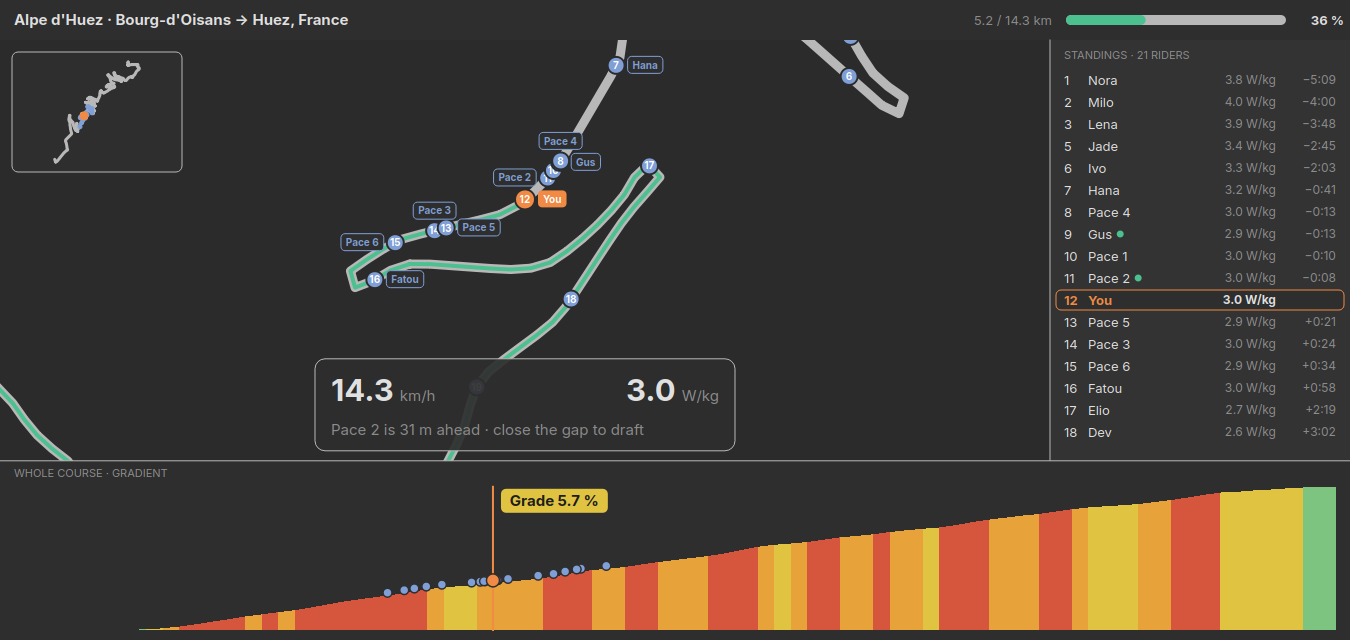
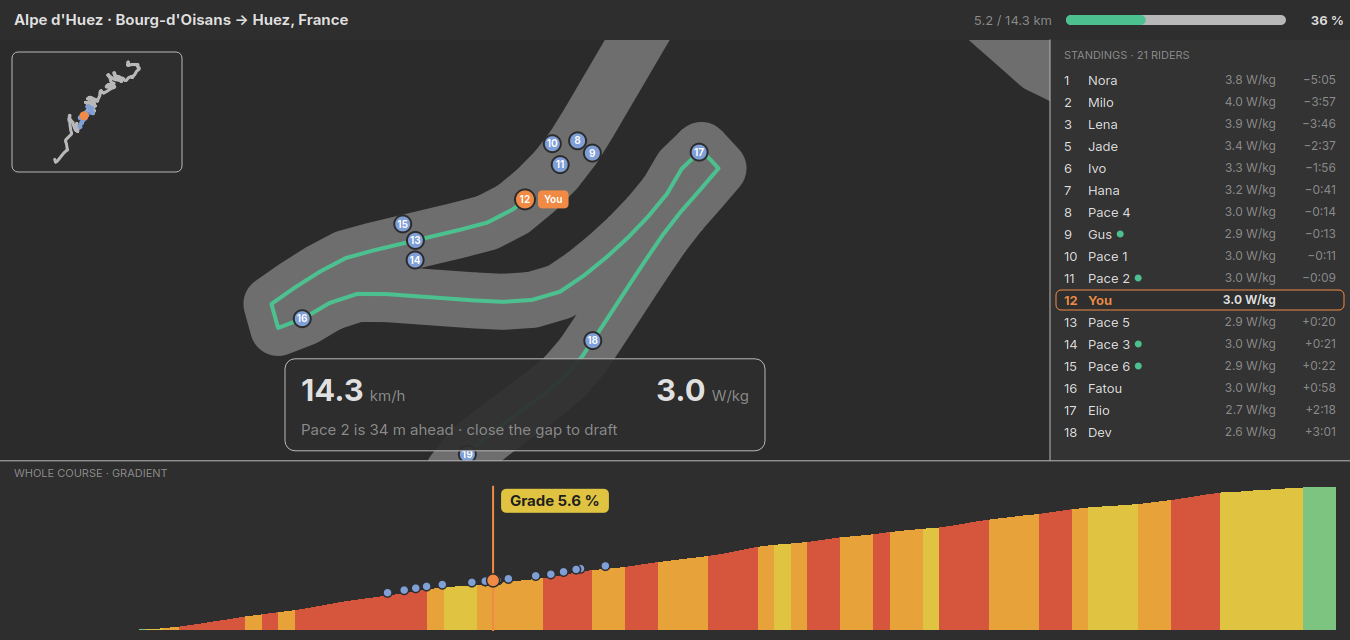
feat(courses): bunch layout on a wide road, stronger group draft
- Riders a metre apart used to share one dot. They are now laid out like a
  bunch on a road drawn wide enough for three abreast: leader first, a rider
  who would cover another moves across the road. Dots show the position
  number; name tags appear for you and for riders within 30 m where a tag
  fits without covering anything.
- The map shows 180 m around you.
- Draft: the closest wheel still gives up to 30 % less air drag (at 1 m or
  closer, none at 10 m). Each further rider ahead now adds up to 5 %, scaled
  by how close they are (it was a flat 3 % for anyone within 10 m), capped
  at 40 %. Tests pin "closer is better", "more riders is better" and that a
  far rider adds almost nothing.
- The draft line counts the riders sheltering you ("On Pace 2's wheel -
  <0.5 m - 5 riders - saving 27 %").

diff --git a/docs/user-guide.html b/docs/user-guide.html
@@ -1235,9 +1235,10 @@
           <li><strong>Pace bots.</strong> About a third of the bots, called <em>Pace 1</em>, <em>Pace 2</em> and so on,
               ride together at 3.0 W/kg (or the nearest end of your range). The others are spread evenly across the
               range.</li>
-          <li><strong>Drafting.</strong> Stay within a few metres behind another rider to save effort. The panel shows who
-              you are drafting and how much power you save. Drafting is worth a lot on the flat and very little on a
-              steep climb.</li>
+          <li><strong>Drafting.</strong> Ride right behind another rider to save effort: the closer you are, the more
+              you save (most at 1 m or less, nothing beyond 10 m), and more riders in front shelter you more. The card
+              shows the wheel you are on, the gap and the power you save. Drafting is worth a lot on the flat and very
+              little on a steep climb.</li>
           <li><strong>The map</strong> follows you, with the riders just ahead and behind as numbered dots (you are
               orange); the small map in the corner shows the whole course. The standings list each rider's W/kg and
               how far ahead or behind you they are.

diff --git a/src/race/raceview.cpp b/src/race/raceview.cpp
@@ -22,10 +22,11 @@ const QColor kGradeSteep(0xd6, 0x55, 0x3d);
 constexpr double kTopBarHeight = 40.0;
 constexpr double kStandingsWidth = 300.0;
 constexpr double kRowHeight = 22.0;
-constexpr double kNameTagRangeM = 250.0;
-constexpr double kNowCardWidth = 420.0;
+constexpr double kNowCardWidth = 480.0;
 constexpr double kNowCardHeight = 92.0;
-constexpr double kZoomHalfM = 130.0;   // the map shows 260 m around you
+constexpr double kRoadWidthPx = 56.0;
+constexpr double kNameRangeM = 30.0;   // riders this close get a name tag, where it fits
+constexpr double kZoomHalfM = 90.0;    // the map shows 180 m around you
 constexpr double kProfileMinSegmentM = 100.0;
 constexpr double kProfileBands = 80.0;
 constexpr double kMetresPerDegreeLat = 110540.0;
@@ -216,7 +217,10 @@ void RaceView::paintRoute(QPainter &painter, const QRectF &area) const
         const QPointF point = routePoint(course.points().at(index).distanceM, roadArea, bounds);
         index == 0 ? road.moveTo(point) : road.lineTo(point);
     }
-    QPen roadPen(palette().color(QPalette::Mid), 9, Qt::SolidLine, Qt::RoundCap, Qt::RoundJoin);
+    // Wide enough for three riders side by side.
+    QColor roadColour = palette().color(QPalette::Mid);
+    roadColour.setAlpha(120);
+    QPen roadPen(roadColour, kRoadWidthPx, Qt::SolidLine, Qt::RoundCap, Qt::RoundJoin);
     painter.setPen(roadPen);
     painter.setBrush(Qt::NoBrush);
     painter.drawPath(road);
@@ -255,14 +259,47 @@ void RaceView::paintRoute(QPainter &painter, const QRectF &area) const
     QFont dotFont = font();
     dotFont.setBold(true);
     dotFont.setPointSizeF(font().pointSizeF() * 0.78);
-    const QFontMetricsF dotMetrics(dotFont);
-    QVector<QRectF> placedTags;
 
-    auto dotCentre = [&](int index) { return routePoint(m_race->riders().at(index).distanceM, roadArea, bounds); };
+    // Lay the riders out like a bunch: leader first, each at its place on the
+    // road; a rider who would cover one already placed moves across the road,
+    // left then right, so riders a metre apart are still two dots.
+    constexpr double kRadius = 8.5;
+    constexpr double kYourRadius = 10.0;
+    constexpr double kSlot = 2 * kRadius + 2;
+    constexpr int kMaxSideSlots = 1;   // three abreast: the width of the road
+    QVector<QPointF> centres(m_race->riders().size());
+    QVector<QPointF> placed;
+    for (const int index : order) {
+        const double distance = m_race->riders().at(index).distanceM;
+        const QPointF onRoad = routePoint(distance, roadArea, bounds);
+        QPointF direction = routePoint(distance + 4.0, roadArea, bounds) - routePoint(distance - 4.0, roadArea, bounds);
+        const double length = std::hypot(direction.x(), direction.y());
+        const QPointF across = length > 0.01 ? QPointF(-direction.y() / length, direction.x() / length) : QPointF(0, 1);
+        QPointF best = onRoad;
+        double bestClearance = -1.0;
+        for (int slot = 0; slot <= 2 * kMaxSideSlots; ++slot) {
+            const int side = (slot + 1) / 2 * (slot % 2 == 1 ? 1 : -1);
+            const QPointF candidate = onRoad + across * (side * kSlot);
+            double clearance = 1e9;
+            for (const QPointF &other : std::as_const(placed))
+                clearance = std::min(clearance, std::hypot(candidate.x() - other.x(), candidate.y() - other.y()));
+            if (clearance >= kSlot - 1.0) {
+                best = candidate;
+                break;
+            }
+            if (clearance > bestClearance) {
+                bestClearance = clearance;
+                best = candidate;
+            }
+        }
+        centres[index] = best;
+        placed.append(best);
+    }
+
     auto drawDot = [&](int index) {
         const RaceSimulation::Rider &rider = m_race->riders().at(index);
-        const QPointF centre = dotCentre(index);
-        const double radius = rider.isYou ? 10.0 : 8.5;
+        const QPointF centre = centres.at(index);
+        const double radius = rider.isYou ? kYourRadius : kRadius;
         painter.setPen(QPen(palette().color(QPalette::Window), 2));
         painter.setBrush(rider.isYou ? kYou : kRider);
         painter.drawEllipse(centre, radius, radius);
@@ -271,61 +308,59 @@ void RaceView::paintRoute(QPainter &painter, const QRectF &area) const
         painter.drawText(QRectF(centre.x() - radius, centre.y() - radius, 2 * radius, 2 * radius),
                          Qt::AlignCenter, QString::number(positionOf.at(index)));
     };
-    auto drawTag = [&](int index) {
-        const RaceSimulation::Rider &rider = m_race->riders().at(index);
-        const bool nearYou = std::abs(rider.distanceM - you.distanceM) <= kNameTagRangeM;
-        if (!rider.isYou && !nearYou && positionOf.at(index) > 1)
-            return;
-        const QPointF centre = dotCentre(index);
-        const double radius = rider.isYou ? 10.0 : 8.5;
-        const QColor colour = rider.isYou ? kYou : kRider;
-        const QString label = rider.isYou ? tr("You") : rider.name;
-        const double width = dotMetrics.horizontalAdvance(label) + 10;
-        const QRectF candidates[] = {
-            {centre.x() + radius + 3, centre.y() - 9, width, 17},
-            {centre.x() - radius - 3 - width, centre.y() - 9, width, 17},
-            {centre.x() - width / 2, centre.y() - radius - 20, width, 17},
-            {centre.x() - width / 2, centre.y() + radius + 3, width, 17},
-        };
-        for (const QRectF &tag : candidates) {
-            const bool clear = std::none_of(placedTags.cbegin(), placedTags.cend(),
-                                            [&tag](const QRectF &other) { return other.intersects(tag); });
-            // Yours is always drawn: in the first free spot, or the first spot.
-            const bool lastChance = rider.isYou && &tag == &candidates[std::size(candidates) - 1];
-            if (!clear && !lastChance)
-                continue;
-            const QRectF &placed = clear ? tag : candidates[0];
-            placedTags.append(placed);
-            painter.setPen(rider.isYou ? Qt::NoPen : QPen(colour, 1));
-            painter.setBrush(rider.isYou ? colour : palette().color(QPalette::Base));
-            painter.drawRoundedRect(placed, 4, 4);
-            painter.setFont(dotFont);
-            painter.setPen(rider.isYou ? Qt::white : colour);
-            painter.drawText(placed, Qt::AlignCenter, label);
-            return;
-        }
-    };
 
-    // Dots back to front with you on top; then tags, yours first so it always
-    // gets a spot, then the leader and the riders nearest you.
+    // Dots back to front, you on top; numbers match the standings.
     for (int place = static_cast<int>(order.size()) - 1; place >= 0; --place)
         if (order.at(place) != 0)
             drawDot(order.at(place));
     drawDot(0);
-    for (int index = 0; index < m_race->riders().size(); ++index)
-        placedTags.append(QRectF(dotCentre(index) - QPointF(8, 8), QSizeF(16, 16)));
-    drawTag(0);
-    QVector<int> byCloseness;
+
+    // Name tags: yours always, and the riders within kNameRangeM of you where
+    // a tag fits without covering a dot or another tag. Others keep the number.
+    QVector<QRectF> taken;
+    for (int index = 0; index < centres.size(); ++index) {
+        const double radius = index == 0 ? kYourRadius : kRadius;
+        taken.append(QRectF(centres.at(index) - QPointF(radius, radius), QSizeF(2 * radius, 2 * radius)));
+    }
+    const QFontMetricsF tagMetrics(dotFont);
+    auto placeTag = [&](int index, bool mustShow) {
+        const RaceSimulation::Rider &rider = m_race->riders().at(index);
+        const QPointF centre = centres.at(index);
+        const double radius = rider.isYou ? kYourRadius : kRadius;
+        const QString label = rider.isYou ? tr("You") : rider.name;
+        const double width = tagMetrics.horizontalAdvance(label) + 12;
+        const QRectF candidates[] = {
+            {centre.x() + radius + 3, centre.y() - 9, width, 18},
+            {centre.x() - radius - 3 - width, centre.y() - 9, width, 18},
+            {centre.x() - width / 2, centre.y() - radius - 21, width, 18},
+            {centre.x() - width / 2, centre.y() + radius + 3, width, 18},
+        };
+        const QRectF *chosen = nullptr;
+        for (const QRectF &candidate : candidates)
+            if (std::none_of(taken.cbegin(), taken.cend(), [&](const QRectF &other) { return other.intersects(candidate); })) {
+                chosen = &candidate;
+                break;
+            }
+        if (!chosen && !mustShow)
+            return;
+        const QRectF tag = chosen ? *chosen : candidates[0];
+        taken.append(tag);
+        const QColor colour = rider.isYou ? kYou : kRider;
+        painter.setPen(rider.isYou ? Qt::NoPen : QPen(colour, 1));
+        painter.setBrush(rider.isYou ? colour : palette().color(QPalette::Base));
+        painter.drawRoundedRect(tag, 4, 4);
+        painter.setFont(dotFont);
+        painter.setPen(rider.isYou ? Qt::white : colour);
+        painter.drawText(tag, Qt::AlignCenter, label);
+    };
+    placeTag(0, true);
+    QVector<int> nearby;
     for (int index = 1; index < m_race->riders().size(); ++index)
-        byCloseness.append(index);
-    std::sort(byCloseness.begin(), byCloseness.end(), [&](int a, int b) {
-        if ((positionOf.at(a) == 1) != (positionOf.at(b) == 1))
-            return positionOf.at(a) == 1;
-        return std::abs(m_race->riders().at(a).distanceM - you.distanceM)
-             < std::abs(m_race->riders().at(b).distanceM - you.distanceM);
-    });
-    for (const int index : std::as_const(byCloseness))
-        drawTag(index);
+        if (std::abs(gapM(index)) <= kNameRangeM)
+            nearby.append(index);
+    std::sort(nearby.begin(), nearby.end(), [&](int a, int b) { return std::abs(gapM(a)) < std::abs(gapM(b)); });
+    for (const int index : std::as_const(nearby))
+        placeTag(index, false);
     painter.restore();
     paintOverview(painter, area);
 }
@@ -424,11 +459,14 @@ void RaceView::paintNowPanel(QPainter &painter, const QRectF &mapArea) const
         const QString wheel = m_race->riders().at(you.draftingBehind).name;
         painter.drawText(draftCell, Qt::AlignLeft | Qt::AlignVCenter,
                          QFontMetrics(draftFont).elidedText(
-                             tr("On %1's wheel \u00b7 %2 \u00b7 saving %3 %")
+                             tr("On %1's wheel \u00b7 %2%3 \u00b7 saving %4 %")
                                  .arg(wheel)
                                  .arg(gapM(you.draftingBehind) < 0.5
-                                          ? tr("under 0.5 m")
+                                          ? tr("<0.5 m")
                                           : tr("%1 m").arg(gapM(you.draftingBehind), 0, 'f', 1))
+                                 .arg(you.ridersSheltering > 1
+                                          ? tr(" \u00b7 %1 riders").arg(you.ridersSheltering)
+                                          : QString())
                                  .arg(qRound(you.powerSaving * 100)),
                              Qt::ElideMiddle, static_cast<int>(draftCell.width())));
     } else {

diff --git a/src/race/racephysics.h b/src/race/racephysics.h
@@ -6,6 +6,7 @@
 #include <QVector>
 
 #include <algorithm>
+#include <functional>
 #include <cmath>
 
 /*
@@ -21,7 +22,7 @@ namespace RacePhysics {
 constexpr double kMaxDraftReduction = 0.40;
 constexpr double kWheelDraftReduction = 0.30;   // right on a wheel, ~1 m back
 constexpr double kDraftRangeM = 10.0;
-constexpr double kExtraRiderBonus = 0.03;       // each further rider ahead in the line
+constexpr double kExtraRiderBonus = 0.05;       // each further rider ahead, at full strength
 
 inline double stepSpeed(double vMps, double powerW, double massKg, double cda,
                         double grade, double draftReduction, double dtSec)
@@ -36,23 +37,32 @@ inline double stepSpeed(double vMps, double powerW, double massKg, double cda,
     return next < 0.0 ? 0.0 : next;
 }
 
+/// How much of the draft a wheel \a gapM ahead gives: all of it at 1 m or
+/// closer, fading in a straight line to none at 10 m.
+inline double draftFade(double gapM)
+{
+    if (gapM <= 0.0 || gapM > kDraftRangeM)
+        return 0.0;
+    return gapM <= 1.0 ? 1.0 : 1.0 - (gapM - 1.0) / (kDraftRangeM - 1.0);
+}
+
 /// Air-drag reduction for a rider, given the gaps (m) to the riders ahead.
-/// Best wheel: 30 % at 1 m or closer, fading to 0 at 10 m. Each further rider
-/// ahead within range adds a little, capped at 40 %.
+/// The closest wheel gives up to 30 % (at 1 m or closer, none at 10 m). Each
+/// further rider ahead adds up to 5 %, scaled the same way by its distance,
+/// so a line of riders right in front shelters you more. Capped at 40 %.
 inline double draftReduction(const QVector<double> &gapsAheadM)
 {
-    double best = 0.0;
-    int riders = 0;
-    for (const double gap : gapsAheadM) {
-        if (gap <= 0.0 || gap > kDraftRangeM)
-            continue;
-        ++riders;
-        const double fade = gap <= 1.0 ? 1.0 : 1.0 - (gap - 1.0) / (kDraftRangeM - 1.0);
-        best = std::max(best, kWheelDraftReduction * fade);
-    }
-    if (riders == 0)
+    QVector<double> fades;
+    for (const double gap : gapsAheadM)
+        if (const double fade = draftFade(gap); fade > 0.0)
+            fades.append(fade);
+    if (fades.isEmpty())
         return 0.0;
-    return std::min(kMaxDraftReduction, best + kExtraRiderBonus * (riders - 1));
+    std::sort(fades.begin(), fades.end(), std::greater<>());
+    double reduction = kWheelDraftReduction * fades.constFirst();
+    for (qsizetype index = 1; index < fades.size(); ++index)
+        reduction += kExtraRiderBonus * fades.at(index);
+    return std::min(kMaxDraftReduction, reduction);
 }
 
 /// The power saved by drafting, as a share of the power needed to ride at

diff --git a/tests/race/tst_race.cpp b/tests/race/tst_race.cpp
@@ -145,14 +145,28 @@ void TstRace::physics_speedsMatchKnownNumbers()
 
 void TstRace::drafting_fadesWithGapAndIsCapped()
 {
-    QCOMPARE(RacePhysics::draftReduction({}), 0.0);
-    QCOMPARE(RacePhysics::draftReduction({0.8}), 0.30);
-    QCOMPARE(RacePhysics::draftReduction({1.0}), 0.30);
-    QVERIFY(std::abs(RacePhysics::draftReduction({5.5}) - 0.15) < 1e-9);
-    QCOMPARE(RacePhysics::draftReduction({10.0}), 0.0);
-    QCOMPARE(RacePhysics::draftReduction({12.0}), 0.0);
-    QVERIFY(std::abs(RacePhysics::draftReduction({1.0, 3.0}) - 0.33) < 1e-9);
-    QCOMPARE(RacePhysics::draftReduction({1, 2, 3, 4, 5, 6, 7, 8}), RacePhysics::kMaxDraftReduction);
+    using RacePhysics::draftReduction;
+    QCOMPARE(draftReduction({}), 0.0);
+    QCOMPARE(draftReduction({0.8}), 0.30);
+    QCOMPARE(draftReduction({1.0}), 0.30);
+    QVERIFY(std::abs(draftReduction({5.5}) - 0.15) < 1e-9);
+    QCOMPARE(draftReduction({10.0}), 0.0);
+    QCOMPARE(draftReduction({12.0}), 0.0);
+
+    // Closer to the wheel: more draft, all the way out to 10 m.
+    for (double gap = 1.0; gap < 10.0; gap += 0.5)
+        QVERIFY2(draftReduction({gap}) > draftReduction({gap + 0.5}), qPrintable(QString::number(gap)));
+
+    // A second rider ahead adds shelter, more when it is close.
+    QVERIFY(std::abs(draftReduction({1.0, 2.0}) - (0.30 + 0.05 * (1.0 - 1.0 / 9.0))) < 1e-9);
+    QVERIFY(draftReduction({1.0, 2.0}) > draftReduction({1.0}));
+    QVERIFY(draftReduction({1.0, 2.0}) > draftReduction({1.0, 9.0}));
+    QVERIFY(draftReduction({1.0, 9.5}) - draftReduction({1.0}) < 0.005);
+    // More riders in the line, more shelter, up to the cap.
+    QVERIFY(draftReduction({1.0, 2.0, 3.0}) > draftReduction({1.0, 2.0}));
+    QCOMPARE(draftReduction({1, 2, 3, 4, 5, 6, 7, 8}), RacePhysics::kMaxDraftReduction);
+    // The order the gaps come in doesn't matter.
+    QCOMPARE(draftReduction({6.0, 1.0}), draftReduction({1.0, 6.0}));
 }
 
 void TstRace::drafting_savesMoreOnTheFlatThanOnAClimb()

diff --git a/src/race/racesimulation.h b/src/race/racesimulation.h
@@ -27,6 +27,7 @@ public:
         double draftReduction = 0.0;   // share of air drag saved
         double powerSaving = 0.0;      // share of power saved ("saving 24 %")
         int draftingBehind = -1;       // rider index of the wheel being followed
+        int ridersSheltering = 0;      // riders within draft range ahead
         std::optional<double> finishTimeSec;
     };
 

diff --git a/src/race/racesimulation.cpp b/src/race/racesimulation.cpp
@@ -63,6 +63,7 @@ void RaceSimulation::updateDrafting()
             }
         }
         rider.draftReduction = RacePhysics::draftReduction(gaps);
+        rider.ridersSheltering = static_cast<int>(gaps.size());
     }
 }
 
